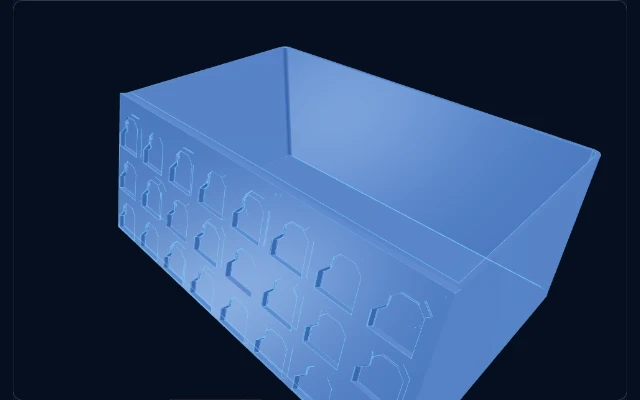
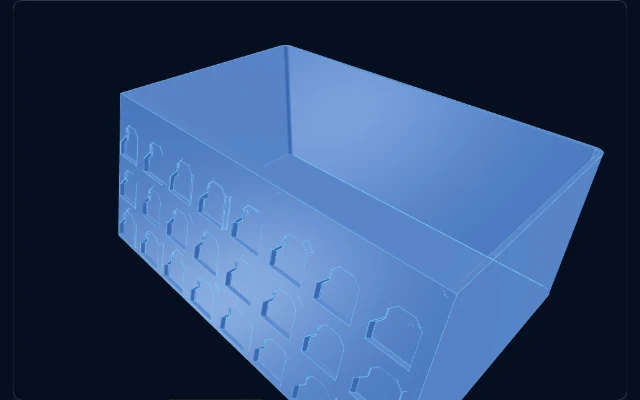
Align tissue box mount ends with top and bottom

diff --git a/src/i18n/catalog.ts b/src/i18n/catalog.ts
@@ -8,7 +8,7 @@ export const zhHantMessages = {
   'models.model.opengrid-openconnect-tissue-box.alt':
     'OpenGrid 向上傾斜的 OpenConnect 掛牆面紙盒',
   'panel.tissueBox.help':
-    '內尺寸：X 沿牆左右、Y 向外、Z 為盒內高度，皆沿盒身量測。面紙包倒放，由頂部補充、底部封閉長槽抽取。預覽與匯出皆讓抽取底面平貼列印平台（Z=0）；掛牆安裝後正角度抬高前端，接口保持直立。R 只作用於遠離牆面的兩個前角，前方內角隨壁厚配合，圓角會占用角落空間；靠牆兩角為直角，與等寬後方支撐銜接。長槽沿 X，長度至少比寬度多 2 mm，距盒內邊緣至少 5 mm。省料只鏤空前面與兩側，上限 3000 格。預設尺寸僅為示例，可依面紙包調整。',
+    '內尺寸：X 沿牆左右、Y 向外、Z 為盒內高度，皆沿盒身量測。面紙包倒放，由頂部補充、底部封閉長槽抽取。預覽與匯出皆讓抽取底面平貼列印平台（Z=0）；掛牆安裝後正角度抬高前端，接口保持直立。背板上下端與盒頂、盒底齊平；若高度不足以容納一列完整接口，請增加 Z 內高。R 只作用於遠離牆面的兩個前角，前方內角隨壁厚配合，圓角會占用角落空間；靠牆兩角為直角，與等寬後方支撐銜接。長槽沿 X，長度至少比寬度多 2 mm，距盒內邊緣至少 5 mm。省料只鏤空前面與兩側，上限 3000 格。預設尺寸僅為示例，可依面紙包調整。',
   'cad.attribution.tissueBox.modified':
     '此參數化面紙盒整合經轉向配置的 OpenConnect 鎖定母座，新增向上傾斜支撐、底部抽取槽與省料側壁。',
   'panel.tissueBox.mountingGrid':
@@ -876,7 +876,7 @@ export const enMessages: { [Key in keyof typeof zhHantMessages]: string } = {
   'models.model.opengrid-openconnect-tissue-box.alt':
     'OpenGrid upward-tilted OpenConnect wall tissue holder',
   'panel.tissueBox.help':
-    'Internal dimensions: X runs along the wall, Y outward, Z is cavity height; all measured along the box. Load the tissue pack upside down from the open top and dispense through the closed bottom slot. Preview and exports place the dispensing bottom flat on the print bed (Z=0). When installed, positive tilt raises the front while the mount stays upright. R rounds only the two outward front corners, with matching inner front rounding that consumes corner space; wall-facing rear corners are square and join the full-width rear support. The X slot must be at least 2 mm longer than its width and leave 5 mm to each internal edge. Saving perforates only front and sides, up to 3000 cells. Defaults are editable examples.',
+    'Internal dimensions: X runs along the wall, Y outward, Z is cavity height; all measured along the box. Load the tissue pack upside down from the open top and dispense through the closed bottom slot. Preview and exports place the dispensing bottom flat on the print bed (Z=0). When installed, positive tilt raises the front while the mount stays upright. The rear mount ends are flush with the box top and bottom; increase internal Z if a complete socket row cannot fit. R rounds only the two outward front corners, with matching inner front rounding that consumes corner space; wall-facing rear corners are square and join the full-width rear support. The X slot must be at least 2 mm longer than its width and leave 5 mm to each internal edge. Saving perforates only front and sides, up to 3000 cells. Defaults are editable examples.',
   'cad.attribution.tissueBox.modified':
     'This parametric tissue holder integrates the oriented OpenConnect locked socket with upward-tilted support, bottom dispensing slot and optional perforated side walls.',
   'panel.tissueBox.mountingGrid':

diff --git a/src/cad-contract/units/opengrid-openconnect-tissue-box.ts b/src/cad-contract/units/opengrid-openconnect-tissue-box.ts
@@ -58,7 +58,12 @@ export function tissueBoxLayout(p: TissueBoxParameters) {
   const supportWidth = width
   const gridPitch = OPENGRID_GRID_CONFIGURATION.fullPitch
   const plateWidth = Math.max(gridPitch, supportWidth)
-  const plateHeight = Math.max(gridPitch, height * cosine)
+  const offsetY = plateThickness + height * sine
+  const plateBottom = (-offsetY * sine) / cosine
+  const plateTop = (height - offsetY * sine) / cosine
+  // Full-thickness cells fit in the intersection of the two sloped end planes.
+  const rowBase = ((plateThickness - offsetY) * sine) / cosine
+  const plateHeight = plateTop - rowBase
   return {
     width,
     depth,
@@ -68,10 +73,13 @@ export function tissueBoxLayout(p: TissueBoxParameters) {
     plateThickness,
     supportWidth,
     plateWidth,
-    offsetY: plateThickness + height * sine,
+    offsetY,
+    plateBottom,
+    plateTop,
+    rowBase,
     plateHeight,
     columns: Math.max(1, Math.floor(plateWidth / gridPitch)),
-    rows: Math.max(1, Math.floor(plateHeight / gridPitch)),
+    rows: Math.max(0, Math.floor((plateHeight + 1e-9) / gridPitch)),
     innerRadius: Math.max(0, p.outerRadius - p.wallThickness),
   }
 }
@@ -87,11 +95,11 @@ export function tissueBoxPoint(
 export function tissueBoxInstalledBounds(p: TissueBoxParameters) {
   const l = tissueBoxLayout(p)
   return {
-    min: [-l.width / 2, 0, 0] as TissueBoxPoint,
+    min: [-l.width / 2, 0, l.plateBottom] as TissueBoxPoint,
     max: [
       l.width / 2,
       l.offsetY + l.depth * l.cosine,
-      Math.max(l.plateHeight, l.depth * l.sine + l.height * l.cosine),
+      l.depth * l.sine + l.height * l.cosine,
     ] as TissueBoxPoint,
   }
 }
@@ -113,12 +121,8 @@ export function tissueBoxPrintPoint(
 export function tissueBoxBounds(p: TissueBoxParameters) {
   const l = tissueBoxLayout(p)
   return {
-    min: [-l.width / 2, -l.offsetY * l.cosine, 0] as TissueBoxPoint,
-    max: [
-      l.width / 2,
-      l.depth,
-      Math.max(l.height, l.offsetY * l.sine + l.plateHeight * l.cosine),
-    ] as TissueBoxPoint,
+    min: [-l.width / 2, -l.offsetY / l.cosine, 0] as TissueBoxPoint,
+    max: [l.width / 2, l.depth, l.height] as TissueBoxPoint,
   }
 }
 
@@ -131,7 +135,7 @@ export function tissueBoxSlotOrigins(p: TissueBoxParameters): TissueBoxPoint[] {
       origins.push([
         (column - (l.columns - 1) / 2) * pitch,
         0,
-        (row + 0.5) * pitch,
+        l.rowBase + (row + 0.5) * pitch,
       ])
     }
   }
@@ -215,6 +219,7 @@ export function validateTissueBoxParameters(
   if (p.slotLength < p.slotWidth + 2 || p.slotLength > slotLimits.length)
     issue('slotLength')
   if (issues.length) return { valid: false, issues }
+  if (tissueBoxLayout(p).rows < 1) issue('z')
   const envelopes = [tissueBoxBounds(p), tissueBoxInstalledBounds(p)]
   if (
     envelopes.some((bounds) =>

diff --git a/tests/unit/opengrid-openconnect-tissue-box.test.ts b/tests/unit/opengrid-openconnect-tissue-box.test.ts
@@ -109,7 +109,9 @@ it('fills both mounting axes without shrinking the rear plate for R', () => {
   expect(new Set(origins.map(([x]) => x)).size).toBe(columns)
   expect(new Set(origins.map(([, , z]) => z)).size).toBe(rows)
   for (let row = 0; row < rows; row++) {
-    const rowPoints = origins.filter(([, , z]) => z === (row + 0.5) * pitch)
+    const rowPoints = origins.filter(
+      ([, , z]) => Math.abs(z - (l.rowBase + (row + 0.5) * pitch)) < 1e-8,
+    )
     expect(rowPoints).toHaveLength(columns)
     expect(rowPoints[0]![0] + rowPoints.at(-1)![0]).toBeCloseTo(0)
   }
@@ -120,8 +122,8 @@ it('fills both mounting axes without shrinking the rear plate for R', () => {
   )
 })
 
-it('retains a full single mounting row on the shortest tilted box', () => {
-  const p = { ...defaults, z: 20, tiltAngle: 45 }
+it('retains a full single mounting row on a short tilted box', () => {
+  const p = { ...defaults, z: 24, tiltAngle: 45 }
   const origins = tissueBoxSlotOrigins(p)
   expect(new Set(origins.map(([, , z]) => z)).size).toBe(1)
 })
@@ -145,3 +147,55 @@ it.each([0, 15, 45])(
       expect(tissueBoxBounds(p)).not.toEqual(tissueBoxInstalledBounds(p))
   },
 )
+
+it.each([0, 15, 45])(
+  'fits full socket cells between flush ends at %s degrees',
+  (tiltAngle) => {
+    const p = { ...defaults, tiltAngle }
+    const l = tissueBoxLayout(p)
+    const half = OPENGRID_GRID_CONFIGURATION.fullPitch / 2
+    for (const [x, , z] of tissueBoxSlotOrigins(p)) {
+      for (const y of [0, l.plateThickness]) {
+        for (const dz of [-half, half]) {
+          const printed = tissueBoxPrintPoint(p, [x, y, z + dz])
+          expect(printed[2]).toBeGreaterThanOrEqual(-1e-8)
+          expect(printed[2]).toBeLessThanOrEqual(l.height + 1e-8)
+        }
+      }
+    }
+    expect(tissueBoxBounds(p).max[2]).toBe(l.height)
+  },
+)
+
+it.each([0, 15, 45])(
+  'rejects a Z too short for one complete flush row at %s degrees',
+  (tiltAngle) => {
+    expect(
+      validateTissueBoxParameters({
+        ...defaults,
+        z: 20,
+        bottomThickness: 1,
+        tiltAngle,
+      }),
+    ).toMatchObject({
+      valid: false,
+      issues: expect.arrayContaining([expect.objectContaining({ field: 'z' })]),
+    })
+  },
+)
+
+it('accepts the first complete row at the height boundary for every supported angle', () => {
+  const pitch = OPENGRID_GRID_CONFIGURATION.fullPitch
+  for (let tiltAngle = 0; tiltAngle <= 45; tiltAngle++) {
+    const base = { ...defaults, tiltAngle }
+    const l = tissueBoxLayout(base)
+    const minimumZ =
+      pitch * l.cosine + l.plateThickness * l.sine - base.bottomThickness
+    expect(validateTissueBoxParameters({ ...base, z: minimumZ }).valid).toBe(
+      true,
+    )
+    expect(
+      validateTissueBoxParameters({ ...base, z: minimumZ - 0.01 }).valid,
+    ).toBe(false)
+  }
+})

diff --git a/tests/worker/opengrid-openconnect-tissue-box.integration.test.ts b/tests/worker/opengrid-openconnect-tissue-box.integration.test.ts
@@ -244,14 +244,18 @@ it('keeps a full mounting pad around the socket on the smallest rounded box', as
     ...small,
     x: 40,
     y: 40,
-    z: 20,
+    z: 24,
     outerRadius: 10,
     tiltAngle: 45,
     slotLength: 25,
     slotWidth: 10,
   }
   const shape = await build(p)
-  const probe = inPrintFrame(makeBox([-13.6, 1.9, 13.9], [-13.4, 2.1, 14.1]), p)
+  const rowZ = tissueBoxSlotOrigins(p)[0]![2]
+  const probe = inPrintFrame(
+    makeBox([-13.6, 1.9, rowZ - 0.1], [-13.4, 2.1, rowZ + 0.1]),
+    p,
+  )
   const common = shape.intersect(probe)
   try {
     expect(Math.abs(measureVolume(common))).toBeGreaterThan(0.007)
@@ -375,7 +379,12 @@ it('cuts every socket of a multi-row upright grid with material between rows', a
         cutter.delete()
       }
     }
-    const probe = inPrintFrame(makeBox([-0.1, 1.9, 27.9], [0.1, 2.1, 28.1]), p)
+    const rowHeights = [...new Set(origins.map(([, , z]) => z))]
+    const betweenRows = (rowHeights[0]! + rowHeights[1]!) / 2
+    const probe = inPrintFrame(
+      makeBox([-0.1, 1.9, betweenRows - 0.1], [0.1, 2.1, betweenRows + 0.1]),
+      p,
+    )
     const common = shape.intersect(probe)
     try {
       expect(measureVolume(common)).toBeGreaterThan(0.007)
@@ -430,6 +439,37 @@ it.each([0, 15, 45])(
       }
     } finally {
       faces.forEach((face) => face.delete())
+      shape.delete()
+    }
+  },
+  180000,
+)
+
+it.each([0, 15, 45])(
+  'makes both rear ends coplanar with the box at %s degrees',
+  async (tiltAngle) => {
+    const p = { ...small, tiltAngle }
+    const l = tissueBoxLayout(p)
+    const shape = await build(p)
+    try {
+      const box = shape.boundingBox
+      try {
+        expect(box.bounds[0][2]).toBeCloseTo(0, 6)
+        expect(box.bounds[1][2]).toBeCloseTo(l.height, 6)
+      } finally {
+        box.delete()
+      }
+      // Near both X edges, away from sockets: material reaches the horizontal ends.
+      for (const z of [0.2, l.height - 0.2]) {
+        const backY = (-l.offsetY + z * l.sine) / l.cosine
+        for (const sign of [-1, 1]) {
+          expect(
+            volumeAt(shape, p, [sign * (l.width / 2 - 0.3), backY + 0.4, z]),
+          ).toBeGreaterThan(0.007)
+        }
+      }
+      expect(tissueBoxQuality(shape)).toEqual({ valid: true, solids: 1 })
+    } finally {
       shape.delete()
     }
   },

diff --git a/src/cad-kernel/components/opengrid-openconnect-tissue-box/builder.ts b/src/cad-kernel/components/opengrid-openconnect-tissue-box/builder.ts
@@ -114,10 +114,13 @@ function support(p: TissueBoxParameters): Shape3D {
   const overlap = 0.1
   const sketcher = new Sketcher('YZ', [-l.supportWidth / 2, 0, 0])
   const sketch = sketcher
-    .movePointerTo([l.plateThickness - overlap, 0])
+    .movePointerTo([0, l.plateBottom])
     .lineTo([l.offsetY + overlap, (overlap * l.sine) / l.cosine])
-    .lineTo([l.plateThickness + overlap, l.height * l.cosine])
-    .lineTo([l.plateThickness - overlap, l.height * l.cosine])
+    .lineTo([
+      l.plateThickness + overlap,
+      l.height * l.cosine + (overlap * l.sine) / l.cosine,
+    ])
+    .lineTo([0, l.plateTop])
     .close()
   try {
     return sketch.extrude(l.supportWidth)
@@ -291,13 +294,6 @@ export async function buildTissueBox(
     replace(current!.rotate(p.tiltAngle, [0, 0, 0], [1, 0, 0]))
     replace(current!.translate(0, l.offsetY, 0))
     boolean(support(p), 'fuse')
-    boolean(
-      makeBox(
-        [-l.plateWidth / 2, 0, 0],
-        [l.plateWidth / 2, l.plateThickness, l.plateHeight],
-      ),
-      'fuse',
-    )
     await boundary(context)
     const source = context.getLockedSlot
       ? await context.getLockedSlot()

diff --git a/tests/e2e/opengrid-openconnect-tissue-box.spec.ts b/tests/e2e/opengrid-openconnect-tissue-box.spec.ts
@@ -27,6 +27,17 @@ test('tissue box exposes XYZ, persists input, guards invalid slots and exports',
   await expect(page.getByTestId('tissue-box-help')).toContainText(
     '靠牆兩角為直角',
   )
+  await expect(page.getByTestId('tissue-box-help')).toContainText(
+    '背板上下端與盒頂、盒底齊平',
+  )
+  const z = page.getByRole('textbox', { name: '內尺寸（Z）', exact: true })
+  await z.fill('20')
+  await expect(z).toHaveAttribute('aria-invalid', 'true')
+  await expect(
+    page.getByRole('button', { name: '下載 STEP', exact: true }),
+  ).toBeDisabled()
+  await z.fill('90')
+  await waitForCadReady(page, 90000)
   const mounting = tissueBoxLayout(TISSUE_BOX_DEFAULTS)
   await expect(page.getByTestId('tissue-box-mounting-grid')).toContainText(
     `X ${mounting.columns} 欄 × Y ${mounting.rows} 列`,

diff --git a/openspec/specs/opengrid-openconnect-tissue-box/spec.md b/openspec/specs/opengrid-openconnect-tissue-box/spec.md
@@ -30,7 +30,7 @@ The holder MUST have four walls, a bottom, and no lid or top covering. Its cavit
 - **THEN** only the two outward front vertical corners MUST follow the selected radius; the two wall-facing rear corners MUST remain square and join a full-width rear support and mounting plate, slot extents MUST follow the dimensions, and the bottom frame MUST stay connected
 
 ### Requirement: Upward tilt with upright OpenConnect mounting
-In the installed wall orientation, at zero degrees the bottom MUST be horizontal. Positive tilt MUST lift the outward front relative to the rear. The integrated locked OpenConnect female interface MUST remain upright on the wall plane and retain its existing mating geometry and 28 mm spacing in both mounting-plane axes. The mounting plane MUST use interface-local X for horizontal columns and Y for vertical rows (installed world Z), distinct from the box local XYZ dimensions. Column and row counts MUST be the full-grid counts fitting the mounting plate width and height, with at least one of each; X columns MUST be centered and row centers MUST start half a pitch above the plate bottom. The panel MUST show the computed X-column and Y-row counts. The support MUST connect the body and interface without covering the cavity, dispensing slot, or crossing the wall plane. The default preview and both STEP/STL exports MUST instead use print orientation: the slotted dispensing bottom MUST be horizontal at Z=0 with its outward normal downward, and no part of the model below Z=0. This rigid orientation change MUST preserve the installed relative upward angle and socket mating geometry. Generated bounds MUST describe the print-oriented output, and both installed and output extents MUST respect the 500 mm limit.
+In the installed wall orientation, at zero degrees the bottom MUST be horizontal. Positive tilt MUST lift the outward front relative to the rear. The integrated locked OpenConnect female interface MUST remain upright on the wall plane and retain its existing mating geometry and 28 mm spacing in both mounting-plane axes. The mounting plane MUST use interface-local X for horizontal columns and Y for vertical rows (installed world Z), distinct from the box local XYZ dimensions. Column and row counts MUST be the full-grid counts fitting the mounting plate width and the common usable height through its full thickness, with at least one of each; X columns MUST be centered and row centers MUST start half a pitch above the lower edge of that common height. Configurations without room for one complete row MUST be rejected with a Z diagnostic and localized guidance to increase internal Z. The panel MUST show the computed X-column and Y-row counts. The support MUST connect the body and interface without covering the cavity, dispensing slot, or crossing the wall plane. The default preview and both STEP/STL exports MUST instead use print orientation: the slotted dispensing bottom MUST be horizontal at Z=0 with its outward normal downward, and no part of the model below Z=0. The full-width rear support and mounting plate MUST have planar lower and upper ends coplanar with the box bottom and top, with no protrusion above the box or raised lower bevel. This rigid orientation change MUST preserve the installed relative upward angle and socket mating geometry. Generated bounds MUST describe the print-oriented output, and both installed and output extents MUST respect the 500 mm limit.
 
 #### Scenario: Positive angle
 - **WHEN** tiltAngle changes from zero to a positive value through 45 degrees
@@ -40,13 +40,22 @@ In the installed wall orientation, at zero degrees the bottom MUST be horizontal
 - **WHEN** the upright plate fits multiple grid columns and rows
 - **THEN** every column-row pair MUST contain a complete locked socket at the shared pitch
 - **AND** varying outerRadius MUST NOT shrink the full-width mounting plate or its column count
-- **AND** a plate shorter than two grid pitches MUST retain one complete row
+- **AND** a usable plate height between one and two grid pitches MUST retain one complete row
 
 #### Scenario: Dispensing bottom faces the print bed
 - **WHEN** a valid box is previewed or exported at any supported upward angle
 - **THEN** its dispensing bottom MUST lie on Z=0 with its exterior normal toward negative Z
 - **AND** the entire body, support and mount MUST remain on or above the print plane
 - **AND** rotating the output back to installed wall orientation MUST restore the requested upward slope and upright socket plane
+
+#### Scenario: Flush rear ends
+- **WHEN** a valid holder is generated at any supported angle
+- **THEN** the rear support and mounting plate MUST reach the same Z=0 and Z=internalZ+bottomThickness planes as the box
+- **AND** complete socket cell envelopes MUST fit between these planes through the plate thickness
+
+#### Scenario: Insufficient mounting height
+- **WHEN** the selected height and angle cannot fit one full socket row while keeping both ends flush
+- **THEN** validation MUST reject the configuration on Z before generation or export
 
 ### Requirement: Protected material-saving mode
 Saving mode MUST cut shared-size hexagonal openings only through the front and two side straight wall regions. The back, bottom frame, slot surround, mounting support, rounded corners, and at least 5 mm wall edge frames MUST remain solid. Cells MUST stay within the protected regions. Small regions with no fitting cells MUST remain solid. The UI MUST show the shared Beta indicator, performance warning, and estimated cell count when enabled. Cutting MUST report cell progress and support stale-generation cancellation.
